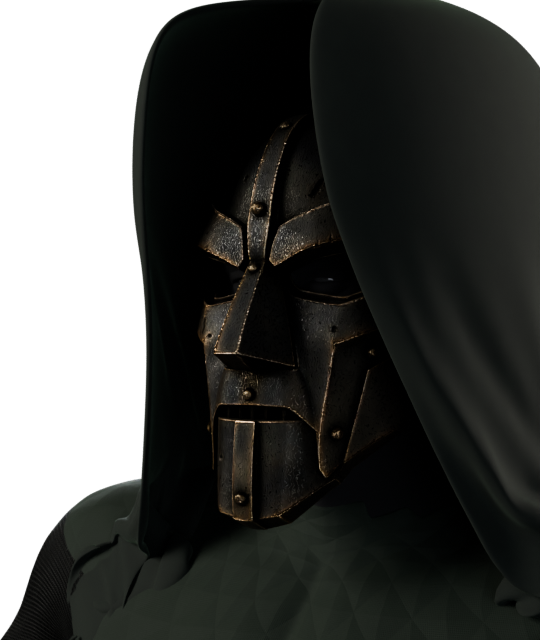
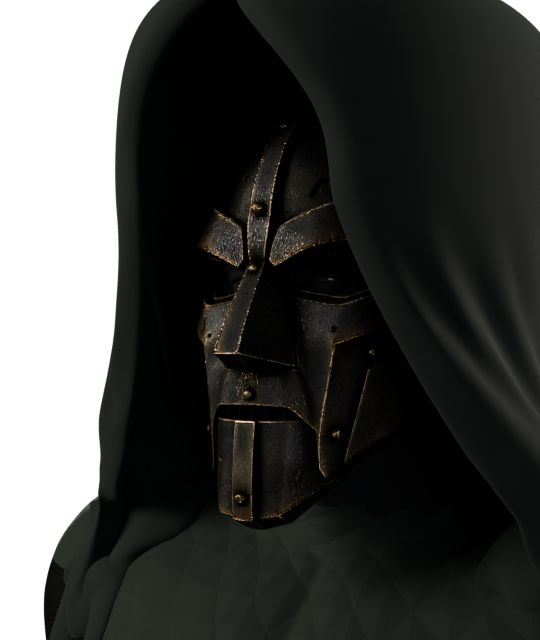
Doctor Doom CGI: hero-pose cloth renders, cloth library, final cloth stage script
Claude-Session: https://claude.ai/code/session_01QCbLLhRhhKSmvEsYX1B5Gh

diff --git a/doctor-doom-cgi/scripts/clothlib.py b/doctor-doom-cgi/scripts/clothlib.py
@@ -1,0 +1,191 @@
+"""Shared cloth helpers: parametric garment surfaces, collider pre-pass,
+simulate-and-freeze, wool materials. Used by the final cloth stage."""
+import math, time
+import numpy as np
+import bpy, bmesh
+from mathutils import Vector
+from mathutils.bvhtree import BVHTree
+import doomlib as L
+
+
+def wool(name="MAT_hood_heavy_wool", a=(0.0045, 0.0075, 0.0055), b=(0.009, 0.015, 0.010), sheen=0.45):
+    m = bpy.data.materials.get(name)
+    if m:
+        return m
+    m = bpy.data.materials.new(name)
+    n, l = m.node_tree.nodes, m.node_tree.links
+    bs = n["Principled BSDF"]
+    tc = n.new("ShaderNodeTexCoord"); mp = n.new("ShaderNodeMapping"); mp.inputs["Scale"].default_value = (260, 260, 260)
+    l.new(tc.outputs["UV"], mp.inputs["Vector"])
+    w1 = n.new("ShaderNodeTexWave"); w1.bands_direction = "X"; w1.inputs["Scale"].default_value = 1.0
+    w2 = n.new("ShaderNodeTexWave"); w2.bands_direction = "Y"; w2.inputs["Scale"].default_value = 1.0
+    l.new(mp.outputs["Vector"], w1.inputs["Vector"]); l.new(mp.outputs["Vector"], w2.inputs["Vector"])
+    mx = n.new("ShaderNodeMath"); mx.operation = "MAXIMUM"
+    l.new(w1.outputs["Fac"], mx.inputs[0]); l.new(w2.outputs["Fac"], mx.inputs[1])
+    noise = n.new("ShaderNodeTexNoise"); noise.inputs["Scale"].default_value = 30; noise.inputs["Detail"].default_value = 10
+    l.new(tc.outputs["UV"], noise.inputs["Vector"])
+    mix = n.new("ShaderNodeMix"); mix.data_type = "RGBA"
+    L._sock(mix.inputs, "A", "RGBA").default_value = a + (1,)
+    L._sock(mix.inputs, "B", "RGBA").default_value = b + (1,)
+    l.new(noise.outputs["Fac"], mix.inputs["Factor"])
+    l.new(L._sock(mix.outputs, "Result", "RGBA"), bs.inputs["Base Color"])
+    bs.inputs["Roughness"].default_value = 0.92
+    bs.inputs["Sheen Weight"].default_value = sheen; bs.inputs["Sheen Roughness"].default_value = 0.35
+    bs.inputs["Sheen Tint"].default_value = (0.10, 0.17, 0.11, 1)
+    bump = n.new("ShaderNodeBump"); bump.inputs["Strength"].default_value = 0.2; bump.inputs["Distance"].default_value = 0.0006
+    l.new(mx.outputs["Value"], bump.inputs["Height"]); l.new(bump.outputs["Normal"], bs.inputs["Normal"])
+    return m
+
+
+def add_collider(o, thickness=0.005, friction=4.0):
+    if not o.modifiers.get("Collision"):
+        o.modifiers.new("Collision", "COLLISION")
+        i = o.modifiers.find("Subdivision")
+        if i >= 0:
+            o.modifiers.move(o.modifiers.find("Collision"), i)
+    o.collision.thickness_outer = thickness
+    o.collision.cloth_friction = friction
+
+
+def trees(objs):
+    dg = bpy.context.evaluated_depsgraph_get()
+    out = []
+    for o in objs:
+        e = o.evaluated_get(dg); m = e.to_mesh()
+        b = bmesh.new(); b.from_mesh(m); b.transform(o.matrix_world)
+        out.append(BVHTree.FromBMesh(b)); b.free(); e.to_mesh_clear()
+    return out
+
+
+def build(name, pts, uv_scale, collection, cap_top_z=None):
+    NV, NU = pts.shape[:2]
+    faces = [(j * NU + i, j * NU + i + 1, (j + 1) * NU + i + 1, (j + 1) * NU + i)
+             for j in range(NV - 1) for i in range(NU - 1)]
+    me = bpy.data.meshes.new(name); me.from_pydata(pts.reshape(-1, 3).tolist(), [], faces); me.update()
+    uvl = me.uv_layers.new(name="UVMap")
+    for p in me.polygons:
+        for li, vi in zip(p.loop_indices, p.vertices):
+            uvl.data[li].uv = ((vi % NU) / (NU - 1) * uv_scale[0], 1 - (vi // NU) / (NV - 1) * uv_scale[1])
+    ob = bpy.data.objects.new(name, me); collection.objects.link(ob)
+    bm = bmesh.new(); bm.from_mesh(me)
+    bmesh.ops.remove_doubles(bm, verts=bm.verts[:], dist=1e-5)
+    if cap_top_z is not None:
+        top = [e for e in bm.edges if e.is_boundary and all(v.co.z > cap_top_z for v in e.verts)]
+        if top:
+            res = bmesh.ops.holes_fill(bm, edges=top, sides=200)
+            if res["faces"]:
+                bmesh.ops.poke(bm, faces=res["faces"])
+    bmesh.ops.recalc_face_normals(bm, faces=bm.faces[:])
+    bm.to_mesh(me); bm.free()
+    for p in me.polygons: p.use_smooth = True
+    return ob
+
+
+def prepass(ob, collider_objs, clear=0.014, iters=3):
+    ts = trees(collider_objs)
+    bm = bmesh.new(); bm.from_mesh(ob.data)
+    pushed = 0
+    for _ in range(iters):
+        for v in bm.verts:
+            for t in ts:
+                loc, nrm, idx, d = t.find_nearest(v.co, 0.06)
+                if loc is None or d < 1e-9: continue
+                sd = (v.co - loc).dot(nrm)
+                if sd < clear:
+                    v.co = loc + nrm * clear; pushed += 1
+        bmesh.ops.smooth_vert(bm, verts=[v for v in bm.verts if not v.is_boundary], factor=0.25,
+                              use_axis_x=True, use_axis_y=True, use_axis_z=True)
+    bm.to_mesh(ob.data); bm.free()
+    return pushed
+
+
+def simulate(ob, pin_fn, frames, mass, bend, tension=35, wind=0.0, friction_note=""):
+    sc = bpy.context.scene
+    pin = ob.vertex_groups.new(name="pin")
+    for v in ob.data.vertices:
+        pin.add([v.index], pin_fn(v), "REPLACE")
+    cl = ob.modifiers.new("Cloth", "CLOTH")
+    s = cl.settings
+    s.quality = 8; s.mass = mass
+    s.tension_stiffness = s.compression_stiffness = tension
+    s.shear_stiffness = 12; s.bending_stiffness = bend; s.air_damping = 2.0
+    s.vertex_group_mass = "pin"; s.pin_stiffness = 2.0
+    s.effector_weights.wind = wind
+    cs = cl.collision_settings
+    cs.distance_min = 0.006; cs.collision_quality = 4
+    cs.use_self_collision = True; cs.self_distance_min = 0.004
+    cl.point_cache.frame_start, cl.point_cache.frame_end = 1, frames
+    sc.frame_start, sc.frame_end = 1, frames
+    t0 = time.time()
+    for f in range(1, frames + 1):
+        sc.frame_set(f)
+    dg = bpy.context.evaluated_depsgraph_get()
+    settled = bpy.data.meshes.new_from_object(ob.evaluated_get(dg))
+    co = np.array([v.co[:] for v in settled.vertices])
+    for v, p in zip(ob.data.vertices, settled.vertices):
+        v.co = p.co
+    bpy.data.meshes.remove(settled)
+    sc.frame_set(1)
+    cl.show_viewport = False; cl.show_render = False
+    ob["cloth_baked_pose"] = "HERO"
+    print("SIM %s %d frames %.1fs bbox %s %s nan=%s" % (ob.name, frames, time.time() - t0,
+          co.min(0).round(3), co.max(0).round(3), bool(np.isnan(co).any())))
+
+
+def finish(ob, thick, mat):
+    sol = ob.modifiers.new("Solidify", "SOLIDIFY"); sol.thickness = thick; sol.offset = -1.0
+    sub = ob.modifiers.new("Subdivision", "SUBSURF"); sub.levels, sub.render_levels = 1, 2
+    ob.data.materials.clear(); ob.data.materials.append(mat)
+    add_collider(ob, 0.004, 3.0)
+
+
+def cape_points(NU=58, NV=100):
+    P = np.zeros((NV, NU, 3))
+    for j in range(NV):
+        v = j / (NV - 1)
+        rx, ry, cy = 0.245 + 0.50 * v ** 0.9, 0.17 + 0.34 * v ** 0.9, 0.04
+        for i in range(NU):
+            phi = math.radians(-100 + 200 * i / (NU - 1))
+            z = 1.545 - 0.025 * abs(phi) / math.radians(100) - v * 1.50
+            P[j, i] = (rx * math.sin(phi), cy + ry * math.cos(phi), z)
+    return P
+
+
+HOOD_PROFILE = np.array([
+    [1.998, 0.030, 0.040, -0.072, 180],
+    [1.982, 0.095, 0.125, -0.072, 180],
+    [1.948, 0.133, 0.172, -0.062, 168],
+    [1.890, 0.150, 0.190, -0.050, 152],
+    [1.830, 0.156, 0.196, -0.040, 150],
+    [1.770, 0.156, 0.190, -0.030, 148],
+    [1.710, 0.150, 0.180, -0.020, 150],
+    [1.650, 0.146, 0.166, -0.010, 156],
+    [1.600, 0.170, 0.170, 0.000, 160],
+    [1.560, 0.250, 0.205, 0.000, 158],
+    [1.505, 0.345, 0.250, 0.008, 156],
+    [1.430, 0.410, 0.280, 0.012, 154],
+    [1.340, 0.445, 0.300, 0.012, 152],
+    [1.240, 0.465, 0.315, 0.012, 151],
+    [1.140, 0.475, 0.325, 0.012, 150],
+])
+
+
+def hood_points(NU=80, NV=58):
+    from scipy.interpolate import CubicSpline
+    P = HOOD_PROFILE
+    spl = CubicSpline(np.arange(len(P)), P, axis=0, bc_type="natural")
+    R = spl(np.linspace(0, len(P) - 1, NV)); R[:, 4] = np.clip(R[:, 4], 0, 180)
+    out = np.zeros((NV, NU, 3))
+    for j, (z, rx, ry, cy, tmax) in enumerate(R):
+        for i in range(NU):
+            t = math.radians(-tmax + 2 * tmax * i / (NU - 1))
+            out[j, i] = (rx * math.sin(t), cy + ry * math.cos(t), z)
+    return out
+
+
+def hood_pin(v):
+    z = v.co.z
+    w = min(1.0, max(0.0, (z - 1.64) / (1.82 - 1.64)))
+    if v.co.y > -0.03 and z > 1.70:
+        w = 1.0
+    return w

diff --git a/doctor-doom-cgi/scripts/s10_cloth_final.py b/doctor-doom-cgi/scripts/s10_cloth_final.py
@@ -1,0 +1,126 @@
+"""Stage 10 - final cloth over all armour (hero pose).
+
+Order: tunic skirt -> cape -> hood/mantle, each colliding with the body layers,
+all armour and the cloth simulated before it. Heavier, stiffer wool for broad
+folds, lower friction, and a light wind field so the cape flows back and to the
+character's right as in the poster. Afterwards the medallions (+ chain) are
+moved on top of the mantle so they read as the cloak clasps (cinematic still).
+Output: work/doom_v010.blend + renders/s10_*.png
+"""
+import sys, os, json, math
+sys.path.insert(0, os.path.dirname(os.path.abspath(__file__)))
+import numpy as np
+import bpy, bmesh
+from mathutils import Vector, Matrix
+import doomlib as L
+import clothlib as C
+
+L.open_version(9)
+sc = bpy.context.scene
+rig = bpy.data.objects["DOOM_rig"]
+L.hero_pose(rig)
+CLOTH = bpy.data.collections["CLOTH"]
+for n in ("DOOM_cape", "DOOM_hood"):
+    o = bpy.data.objects.get(n)
+    if o:
+        me = o.data; bpy.data.objects.remove(o); bpy.data.meshes.remove(me)
+O = bpy.data.objects
+armor = [o for o in bpy.data.collections["ARMOR"].objects
+         if o.type == "MESH" and not any(k in o.name for k in ("rivet", "chain", "medallion", "gauntlet"))]
+body_layers = [O[n] for n in ("DOOM_undersuit", "DOOM_cowl", "DOOM_boots", "DOOM_gloves", "COL_mask_proxy")]
+for o in body_layers + armor:
+    C.add_collider(o, 0.005, 4.0)
+print("COLLIDERS", len(body_layers + armor))
+
+wind = O.new("FX_wind", None) if False else bpy.data.objects.new("FX_wind", None)
+sc.collection.objects.link(wind)
+wind.empty_display_type = "SINGLE_ARROW"
+wind.location = (0.3, -2.0, 1.0)
+wind.rotation_euler = Vector((-0.5, 0.85, 0.12)).to_track_quat("Z", "Y").to_euler()
+bpy.context.view_layer.objects.active = wind
+wind.field.type = "WIND"; wind.field.strength = 2.5; wind.field.noise = 0.4; wind.field.flow = 0.0
+
+# ------------------------------------------------------------ tunic skirt
+dg = bpy.context.evaluated_depsgraph_get()
+suit_tree = C.trees([O["DOOM_undersuit"]])[0]
+def hip_r(phi, z):
+    d = Vector((math.sin(phi), -math.cos(phi), 0)); c0 = Vector((0, 0.01, z))
+    h = suit_tree.ray_cast(c0, d, 0.5)
+    return h[3] if h[0] is not None else 0.17
+panels = [(-88, -2), (2, 88), (92, 178), (-178, -92)]
+NUp, NVp = 22, 42
+skirt_pts = []
+for a0, a1 in panels:
+    P = np.zeros((NVp, NUp, 3))
+    for i in range(NUp):
+        phi = math.radians(a0 + (a1 - a0) * i / (NUp - 1))
+        r0 = hip_r(phi, 1.0) + 0.008
+        for j in range(NVp):
+            v = j / (NVp - 1)
+            z = 1.02 - v * 0.60
+            r = r0 + 0.11 * v ** 1.2
+            P[j, i] = (r * math.sin(phi), 0.01 - r * math.cos(phi), z)
+    skirt_pts.append(P)
+skirt_obs = []
+for k, P in enumerate(skirt_pts):
+    ob = C.build("DOOM_skirt_%d" % k, P, (1.2, 2.0), CLOTH)
+    skirt_obs.append(ob)
+# join the four panels into one cloth object (self-collision between panels)
+bpy.ops.object.select_all(action="DESELECT")
+for ob in skirt_obs: ob.select_set(True)
+bpy.context.view_layer.objects.active = skirt_obs[0]
+bpy.ops.object.join()
+skirt = bpy.context.view_layer.objects.active; skirt.name = "DOOM_skirt"; skirt.data.name = "DOOM_skirt"
+print("SKIRT prepass", C.prepass(skirt, body_layers + armor, clear=0.010))
+C.simulate(skirt, lambda v: 1.0 if v.co.z > 1.005 else 0.0, 50, mass=0.6, bend=6.0, wind=0.25)
+C.finish(skirt, 0.005, C.wool("MAT_tunic_skirt_wool", (0.004, 0.009, 0.005), (0.009, 0.018, 0.010), sheen=0.35))
+
+# ------------------------------------------------------------ cape
+cape = C.build("DOOM_cape", C.cape_points(), (3.0, 4.0), CLOTH)
+print("CAPE prepass", C.prepass(cape, body_layers + armor + [skirt]))
+C.simulate(cape, lambda v: 1.0 if v.co.z > 1.505 else 0.0, 70, mass=1.1, bend=10.0, wind=1.0)
+C.finish(cape, 0.006, C.wool())
+
+# ------------------------------------------------------------ hood + mantle
+hood = C.build("DOOM_hood", C.hood_points(), (2.4, 2.0), CLOTH, cap_top_z=1.985)
+print("HOOD prepass", C.prepass(hood, body_layers + armor + [cape], clear=0.012))
+C.simulate(hood, C.hood_pin, 55, mass=0.5, bend=3.0, wind=0.15)
+C.finish(hood, 0.005, C.wool())
+
+# ------------------------------------------------------------ medallions as clasps over the mantle
+ht = C.trees([hood])[0]
+moved = []
+for n in ("DOOM_medallion_L", "DOOM_medallion_R"):
+    m = O[n]
+    c = m.matrix_world.translation.copy()
+    hit = ht.ray_cast(c + Vector((0, 0.05, 0)), Vector((0, -1, 0)), 0.2)
+    if hit[0] is not None and hit[0].y < c.y + 0.004:
+        dy = hit[0].y - c.y - 0.012
+        m.matrix_world = Matrix.Translation((0, dy, 0)) @ m.matrix_world
+        moved.append(dy)
+if moved:
+    ch = O["DOOM_chain"]
+    ch.matrix_world = Matrix.Translation((0, min(moved), 0)) @ ch.matrix_world
+print("CLASPS moved", [round(d, 3) for d in moved])
+
+# ------------------------------------------------------------ checks + renders
+ts = C.trees(body_layers[:4] + armor)
+for ob in (skirt, cape, hood):
+    pen = 0
+    for v in ob.data.vertices:
+        for t in ts:
+            loc, nrm, idx, d = t.find_nearest(v.co, 0.03)
+            if loc is not None and (v.co - loc).dot(nrm) < -0.002:
+                pen += 1; break
+    print("CHECK", ob.name, json.dumps(L.mesh_report(ob)), "penetrating=%d" % pen)
+for o in bpy.data.collections["REF"].objects: o.hide_render = True
+paths = [L.render_view(c, "s10_full_%s.png" % c[4:], res=(460, 700), samples=48) for c in ("CAM_front", "CAM_34", "CAM_side", "CAM_back")]
+L.contact_sheet(paths, ["front", "3/4", "side", "back"], "s10_full_sheet.jpg")
+cd = O["CAM_detail"]; td = O["TGT_detail"]
+shots = []
+for name, tgt, off, lens in (("chest", Vector((0, -0.12, 1.38)), (0.3, -1.05, 0.05), 45),
+                             ("hood", Vector((0, -0.08, 1.70)), (0.35, -1.0, -0.05), 50)):
+    td.location = tgt; cd.location = tgt + Vector(off); cd.data.lens = lens
+    shots.append(L.render_view("CAM_detail", "s10_%s.png" % name, res=(600, 600), samples=64))
+L.contact_sheet(shots, ["chest + clasps", "hood"], "s10_detail_sheet.jpg")
+L.save_version(10, "Stage 10 final cloth in HERO pose over armour: skirt, cape (wind), hood/mantle, medallion clasps")
